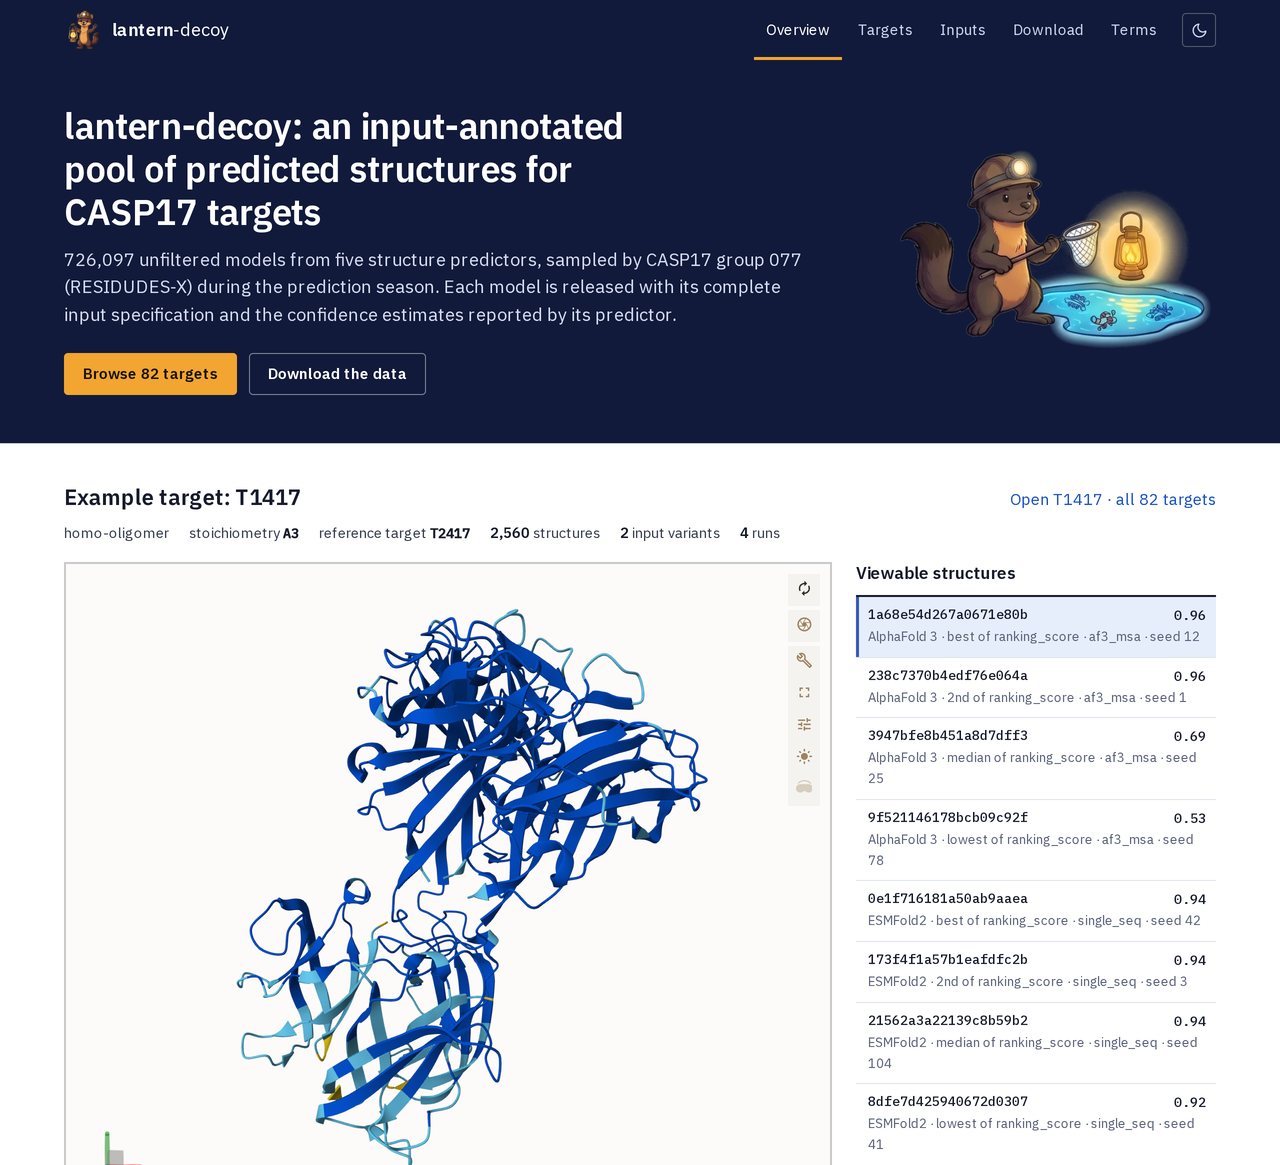
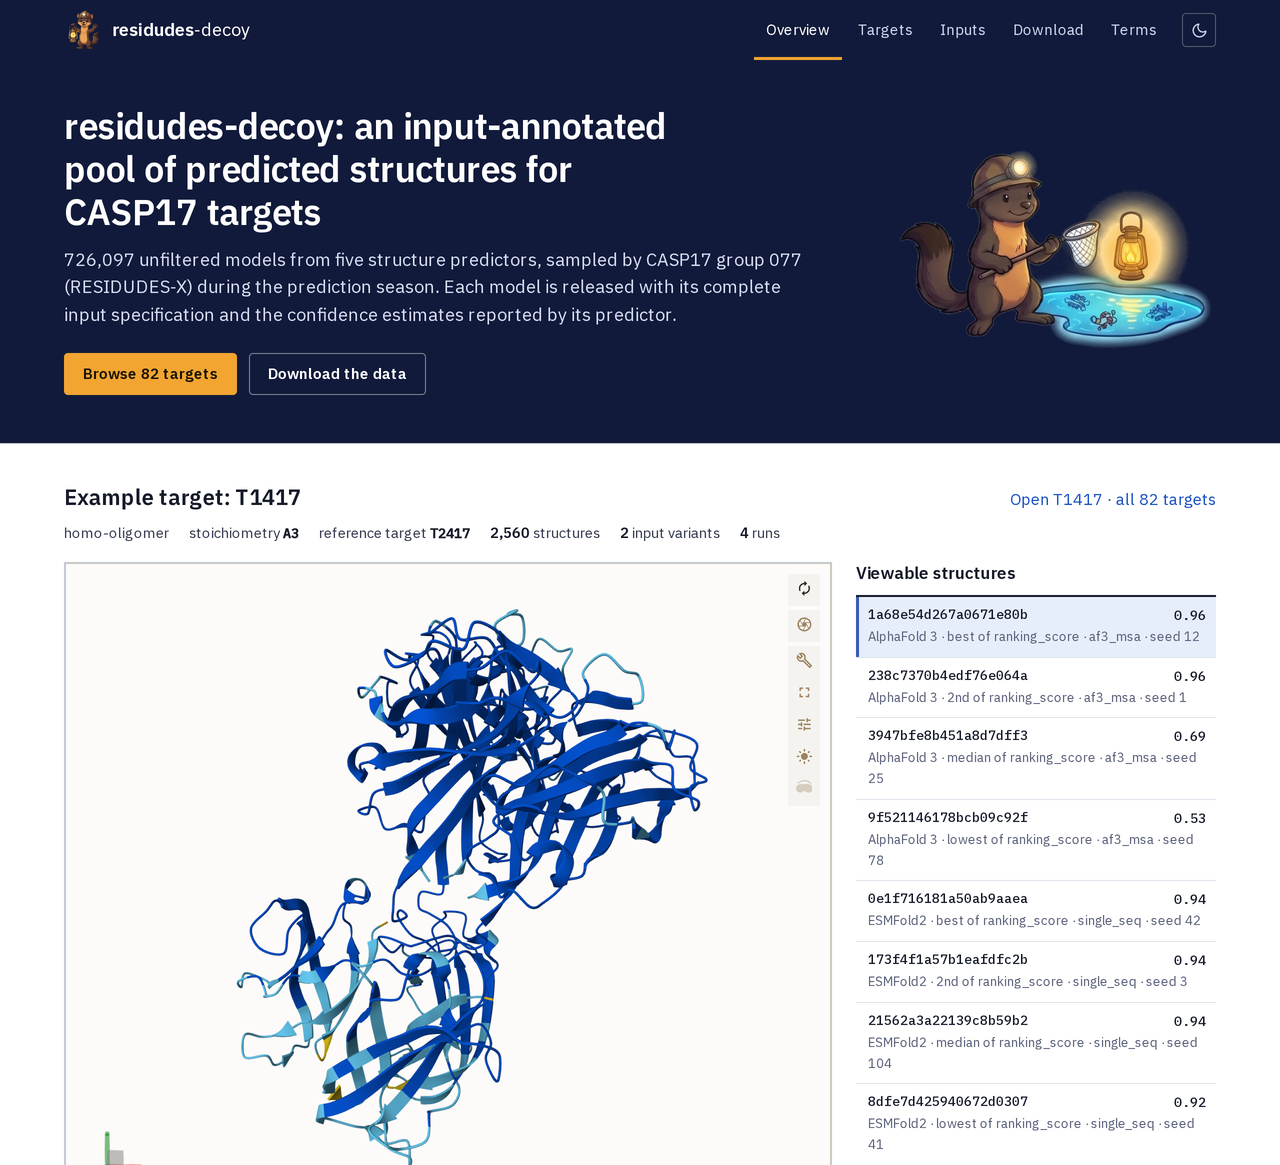
residudes-decoy: the new address, and captures of the renamed site
The site and the bucket moved to residudes-decoy.deepfold.org and
s3.deepfold.org/residudes-decoy; every URL follows, and the three
screenshots are re-taken from the renamed site.

Changed region(s): [[0.0312, 0.0927, 0.5312, 0.1236], [0.0938, 0.0, 0.1875, 0.0309]]

diff --git a/docs/residudes-decoy.md b/docs/residudes-decoy.md
@@ -1,9 +1,6 @@
 # residudes-decoy: the CASP17 sampling pool, with the input of every model
 
-**[lantern-decoy.deepfold.org](https://lantern-decoy.deepfold.org)** · bucket `https://s3.deepfold.org/lantern-decoy/`
-
-The site and the bucket still carry the earlier name `lantern-decoy`; the dataset, the layout and the
-terms below are the same.
+**[residudes-decoy.deepfold.org](https://residudes-decoy.deepfold.org)** · bucket `https://s3.deepfold.org/residudes-decoy/`
 
 726,097 predicted structures for 82 CASP17 targets, from five predictors, released unfiltered: the models
 this team submitted and the ones it threw away, each with the input specification that produced it and the
@@ -17,7 +14,7 @@ confidence`](../residudes/docs/casp17_cases.md), residudes-qa's interface scorer
 [`residudes/docs/gates.md`](../residudes/docs/gates.md) — was measured on pools of this shape, and 82 of those
 targets are now public.
 
-[![The residudes-decoy overview: the pool in a line, and the example target T1417 with its structure in a Mol* viewer beside the list of viewable models](figures/residudes-decoy-home.png)](https://lantern-decoy.deepfold.org)
+[![The residudes-decoy overview: the pool in a line, and the example target T1417 with its structure in a Mol* viewer beside the list of viewable models](figures/residudes-decoy-home.png)](https://residudes-decoy.deepfold.org)
 
 ## What is in it
 
@@ -39,7 +36,7 @@ CASP17 ensemble targets (`E*`) are not included — they are assessed as ensembl
 structures — and neither are the ligand-series targets `L01`/`L02`, which are one receptor against many
 ligands.
 
-[![The targets page: 82 CASP17 targets with stoichiometry, structure count, input variants, runs, the models that produced them and the download size](figures/residudes-decoy-targets.png)](https://lantern-decoy.deepfold.org/targets)
+[![The targets page: 82 CASP17 targets with stoichiometry, structure count, input variants, runs, the models that produced them and the download size](figures/residudes-decoy-targets.png)](https://residudes-decoy.deepfold.org/targets)
 
 *The targets page: every target with its stoichiometry, how many structures and input variants it has, which
 predictors produced them, and what the download costs. T1364 alone is 81,120 structures and 3.5 GB.*
@@ -63,7 +60,7 @@ including by distillation, and restrict use to non-commercial research. The othe
 structures over the same 82 targets with the same index and metadata**, carry no such restriction, which is
 why the split is by predictor and not by target. The full text ships with the data
 (`licenses/LEGALLY_BINDING_TERMS_OF_USE.txt`) and the site's
-[terms page](https://lantern-decoy.deepfold.org/terms) summarises it.
+[terms page](https://residudes-decoy.deepfold.org/terms) summarises it.
 
 ## Getting it
 
@@ -71,19 +68,19 @@ No credentials, no API: the bucket is public and serves `Access-Control-Allow-Or
 
 ```sh
 # the index first: it is small, and it says what is worth downloading
-curl -O https://s3.deepfold.org/lantern-decoy/index/structures.csv.gz
+curl -O https://s3.deepfold.org/residudes-decoy/index/structures.csv.gz
 
 # one target, one predictor
-curl -O https://s3.deepfold.org/lantern-decoy/structures/T1416/af3.tar.zst
+curl -O https://s3.deepfold.org/residudes-decoy/structures/T1416/af3.tar.zst
 tar --use-compress-program=unzstd -xf af3.tar.zst
 
 # everything, with any S3 client
 aws s3 --no-sign-request --endpoint-url https://s3.deepfold.org \
-    sync s3://lantern-decoy/ ./lantern-decoy/
+    sync s3://residudes-decoy/ ./residudes-decoy/
 
 # everything except the non-commercial, no-training AlphaFold 3 shards
 aws s3 --no-sign-request --endpoint-url https://s3.deepfold.org \
-    sync s3://lantern-decoy/ ./lantern-decoy/ --exclude "structures/*/af3.tar.zst"
+    sync s3://residudes-decoy/ ./residudes-decoy/ --exclude "structures/*/af3.tar.zst"
 ```
 
 `SHA256SUMS` carries a checksum for every object (`sha256sum -c`), and every structure also carries its own
@@ -121,7 +118,7 @@ Index columns: `structure_id`, `target_id`, `truth_target`, `truth_stoichiometry
 `ranking_score`, `gpde`, `has_clash`, `fraction_disordered`, `cif_bytes`, `content_sha256`,
 `source_relative_path`.
 
-[![The input variants page: each variant name with what it means, its evidence and how many structures and targets it covers](figures/residudes-decoy-inputs.png)](https://lantern-decoy.deepfold.org/variants)
+[![The input variants page: each variant name with what it means, its evidence and how many structures and targets it covers](figures/residudes-decoy-inputs.png)](https://residudes-decoy.deepfold.org/variants)
 
 *The variant dictionary: what each input name means, where that meaning came from, and how much of the pool it
 covers. The rows without a written meaning are the ones described below.*
@@ -155,10 +152,9 @@ covers. The rows without a written meaning are the ones described below.*
 - The per-target cases behind the selection claims are in
   [`residudes/docs/casp17_cases.md`](../residudes/docs/casp17_cases.md).
 
-The browser at [lantern-decoy.deepfold.org](https://lantern-decoy.deepfold.org) is a separate repository
-([DeepFoldProtein/lantern-decoy-web](https://github.com/DeepFoldProtein/lantern-decoy-web)): a static front
-end with no API that fetches the manifests, the per-target summaries and the mmCIF files straight from the
-bucket.
+The browser at [residudes-decoy.deepfold.org](https://residudes-decoy.deepfold.org) is built from a separate
+repository: a static front end with no API that fetches the manifests, the per-target summaries and the mmCIF
+files straight from the bucket.
 
 ## Citation
 

diff --git a/README.md b/README.md
@@ -11,7 +11,7 @@ Structure prediction tools from the DeepFold team's CASP17 entry. There are thre
 - [`residudes-qa/`](residudes-qa/) assesses the pool: it scores, clusters and plots every prediction to show which ones to
   trust.
 
-And the pool itself is public: **[residudes-decoy](https://lantern-decoy.deepfold.org)** — 726,097 unfiltered
+And the pool itself is public: **[residudes-decoy](https://residudes-decoy.deepfold.org)** — 726,097 unfiltered
 CASP17 predictions with the input that produced each one ([what it is and how to get it](docs/residudes-decoy.md)).
 
 [![residudes drives residudes-engine and residudes-qa: a stage line above, the prediction lane and the QA lane below](docs/figures/overview.png)](docs/figures/overview.svg)
@@ -107,10 +107,9 @@ uv run residudes-qa visualize <target>
 ## The data: residudes-decoy
 
 The sampling pool behind all of this is released as it was sampled, not as it was submitted:
-**[lantern-decoy.deepfold.org](https://lantern-decoy.deepfold.org)** · `s3.deepfold.org/lantern-decoy`
-— the site and the bucket still carry the earlier name; the dataset is the one described here.
+**[residudes-decoy.deepfold.org](https://residudes-decoy.deepfold.org)** · `s3.deepfold.org/residudes-decoy`.
 
-[<img src="docs/figures/residudes-decoy-home.png" width="760" alt="The residudes-decoy site: the pool described in a line, then the example target T1417 with its structure in a Mol* viewer and the list of viewable models beside it">](https://lantern-decoy.deepfold.org)
+[<img src="docs/figures/residudes-decoy-home.png" width="760" alt="The residudes-decoy site: the pool described in a line, then the example target T1417 with its structure in a Mol* viewer and the list of viewable models beside it">](https://residudes-decoy.deepfold.org)
 
 The site browses the pool straight from object storage — no API: the target list and the input recipes come
 from the manifests, the per-target page draws its distributions from a summary JSON and shows structures in
@@ -125,8 +124,8 @@ Mol\*, and the full per-structure index is one click away.
 | Size | 114.9 GB in 312 zstd shards, public, no credentials |
 
 ```sh
-curl -O https://s3.deepfold.org/lantern-decoy/index/structures.csv.gz          # what is in it
-curl -O https://s3.deepfold.org/lantern-decoy/structures/T1416/af3.tar.zst     # one target, one predictor
+curl -O https://s3.deepfold.org/residudes-decoy/index/structures.csv.gz          # what is in it
+curl -O https://s3.deepfold.org/residudes-decoy/structures/T1416/af3.tar.zst     # one target, one predictor
 ```
 
 A set of best models shows what a pipeline chose; a pool shows what it chose *from*, which is what work on
@@ -134,7 +133,7 @@ ranking, selection and decoy discrimination needs. **Shards are split by predict
 the 194,183 AlphaFold 3 structures are non-commercial and may not be used to train structure-prediction models,
 while the other 531,914 are Apache-2.0 or MIT and carry no such restriction.
 [`docs/residudes-decoy.md`](docs/residudes-decoy.md) has the layout, the index columns, the record linkage and the
-caveats; the [terms page](https://lantern-decoy.deepfold.org/terms) has the licences in full.
+caveats; the [terms page](https://residudes-decoy.deepfold.org/terms) has the licences in full.
 
 ## Tests
 

diff --git a/residudes/README.md b/residudes/README.md
@@ -257,7 +257,7 @@ bin/residudes review T [--add "name: why"]           # first-results checks -> t
 
 **Before `residudes pool`.** It reads `<dir>/results/<sto>/<variant>/<runner>/seed_<N>/sample_<M>/` (`summary.json`
 and `model.cif`). Per-chain runs go under `<dir>/<chain>/results/...`. A pool of this campaign is public if you
-want one to try these commands on: [residudes-decoy](https://lantern-decoy.deepfold.org), 726,097 CASP17 models
+want one to try these commands on: [residudes-decoy](https://residudes-decoy.deepfold.org), 726,097 CASP17 models
 with the input of each ([`docs/residudes-decoy.md`](../docs/residudes-decoy.md)).
 - `<dir>` is `--dir`, or `<targets_root>/<T>` from `residudes.toml`.
 - The folder names become the names everything else uses: `--sto A3`, and models like `A3__af3_msa__af3__s97_3`.

diff --git a/residudes-qa/README.md b/residudes-qa/README.md
@@ -26,7 +26,7 @@ Within RESIDUDES:
 - `residudes`, the campaign agent, drives both.
 
 The CASP17 pools these scorers were fitted and tested on are public, unfiltered and with the input of every
-model: [residudes-decoy](https://lantern-decoy.deepfold.org), 726,097 structures over 82 targets
+model: [residudes-decoy](https://residudes-decoy.deepfold.org), 726,097 structures over 82 targets
 ([`docs/residudes-decoy.md`](../docs/residudes-decoy.md)). The AlphaFold 3 quarter of that pool may **not** be used
 to train scoring or ranking models; the other 531,914 structures carry no such restriction.
 
